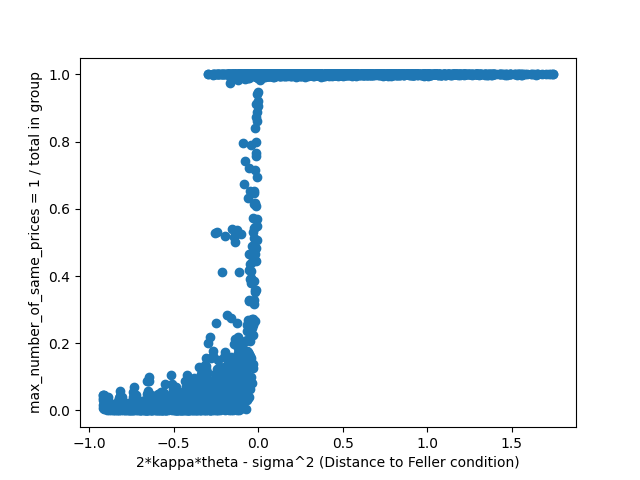
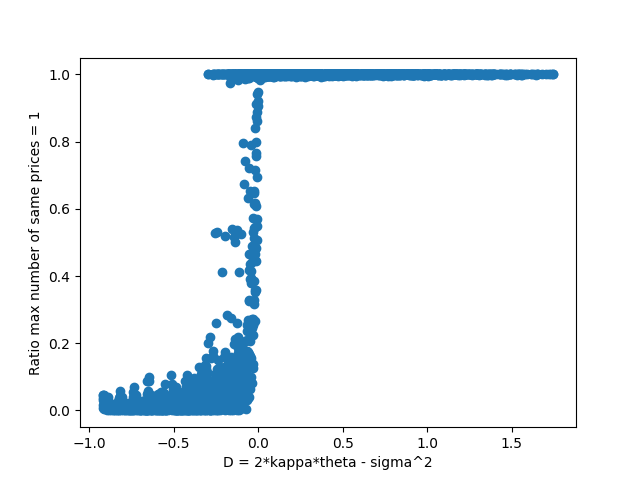
Feller condition und numerische Fehler komplett ausgewertet

Changed region(s): [[0.2188, 0.9375, 0.8125, 1.0], [0.0312, 0.1562, 0.0625, 0.875]]

diff --git a/latex/input/results.tex b/latex/input/results.tex
@@ -21,6 +21,22 @@
     \label{fig:max_number_of_same_prices_cumulative_percentage}
 \end{figure}
 
+\begin{figure}
+    \centering
+    \includegraphics[width=0.8\textwidth]{img/max_number_of_same_prices_ratio_parameters.png}
+    \caption{Ratio of simulations that do not exceed the maximum number of same prices in relation to the parameters of the Heston model}
+    \label{fig:max_number_of_same_prices_ratio_parameters}
+\end{figure}
+
+\begin{figure}
+    \centering
+    \includegraphics[width=0.8\textwidth]{img/max_number_of_same_prices_ratio_feller_diff.png}
+    \caption{Ratio of simulations that do not exceed the maximum number of same prices in relation to the value $D$}
+    \label{fig:max_number_of_same_prices_ratio_D}
+\end{figure}
+
+- Untersuchung, woher diese Fehler kommen: Dazu bestimmen des Anteils der Simulationen, die korrekt in Abhängigkeit eines jeden einzelnen Parameters des Heston-Modells (siehe Abbildung \ref{fig:max_number_of_same_prices_ratio_parameters}). Man erkennt, dass mit zunehmendem $\sigma$ die Fehler zunehmen, während mit zunehmendem $\theta$ und $\kappa$ die Fehler abnehmen. Die Parameter $\mu$, $\rho$ und $v_0$ haben keinen Einfluss auf die Fehlerhäufigkeit. Das legt nahe, dass die Fehler mit der Feller condition zusammenhängen. Deshalb untersucht man nun die Fehlerhäufigkeit und den Wert $D = 2\kappa\theta - \sigma^2$. Ist dieser Wert positiv, so ist die Feller condition erfüllt, je negativer er ist, desto weniger erfüllt ist die Feller condition. Abbildung \ref{fig:max_number_of_same_prices_ratio_D} zeigt, dass, sobald die Feller condition nicht mehr erfüllt ist, die Fehlerhäufigkeit stark zunimmt. Wenn die Feller condition erfüllt ist, so sind 99.90\% der Simulationen korrekt, ist die Feller condition nicht erfüllt, so sind es nur 25.48\%. Insgesamt erfüllen 57.80\% der Simulationen die Feller condition.
+
 \section{Comparing Distributions with the Kolmogorov-Smirnov-Test}
 
 \section{Comparing the Tails of the Distributions}
